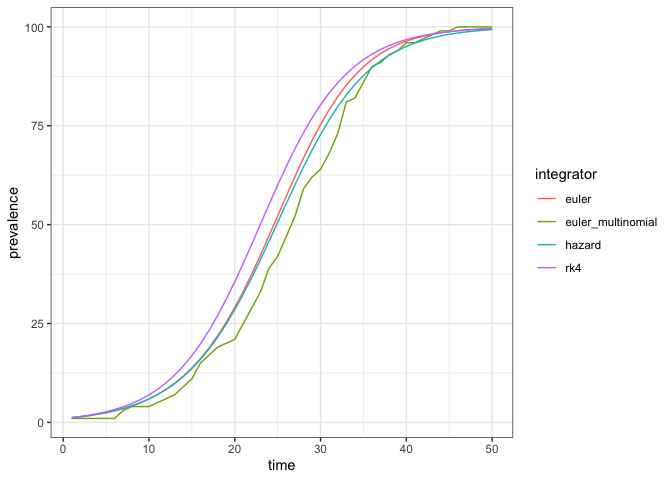
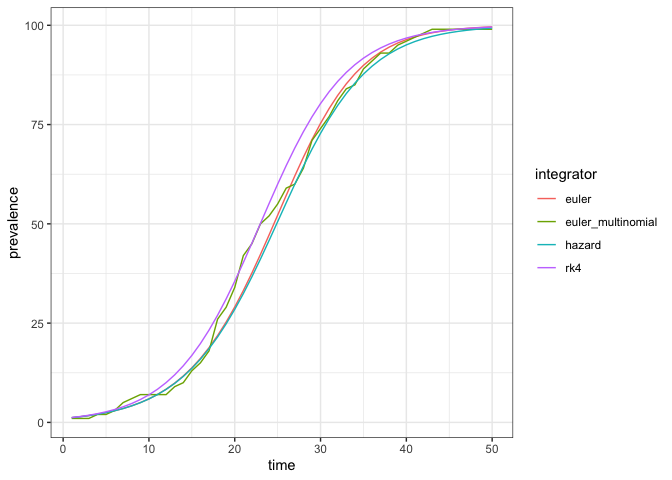
[skip ci] starter model tweaks

diff --git a/inst/starter_models/sir_waning/README.md b/inst/starter_models/sir_waning/README.md
@@ -1,4 +1,4 @@
-SIR with Waning Immunity
+SIR with Waning Immunity (SIRS)
 ================
 Jen Freeman, Steve Walker
 
@@ -21,7 +21,8 @@ Endemic pathogens can sometimes be modelled by sending R back to S,
 thereby controlling susceptible depletion such that new infections keep
 arising indefinitely. This is an extension of the
 [sir](https://github.com/canmod/macpan2/tree/main/inst/starter_models/sir)
-model to include such immunity waning.
+model to include immunity waning. This model is commonly called the SIRS
+model.
 
 # Packages Used and Settings
 

diff --git a/inst/starter_models/si/README.md b/inst/starter_models/si/README.md
@@ -67,6 +67,7 @@ specs = mp_tmb_library("starter_models"
   , package = "macpan2"
   , alternative_specs = TRUE
 )
+set.seed(1)
 (specs
   |> lapply(mp_simulator, 50L, "I")
   |> lapply(mp_trajectory)
